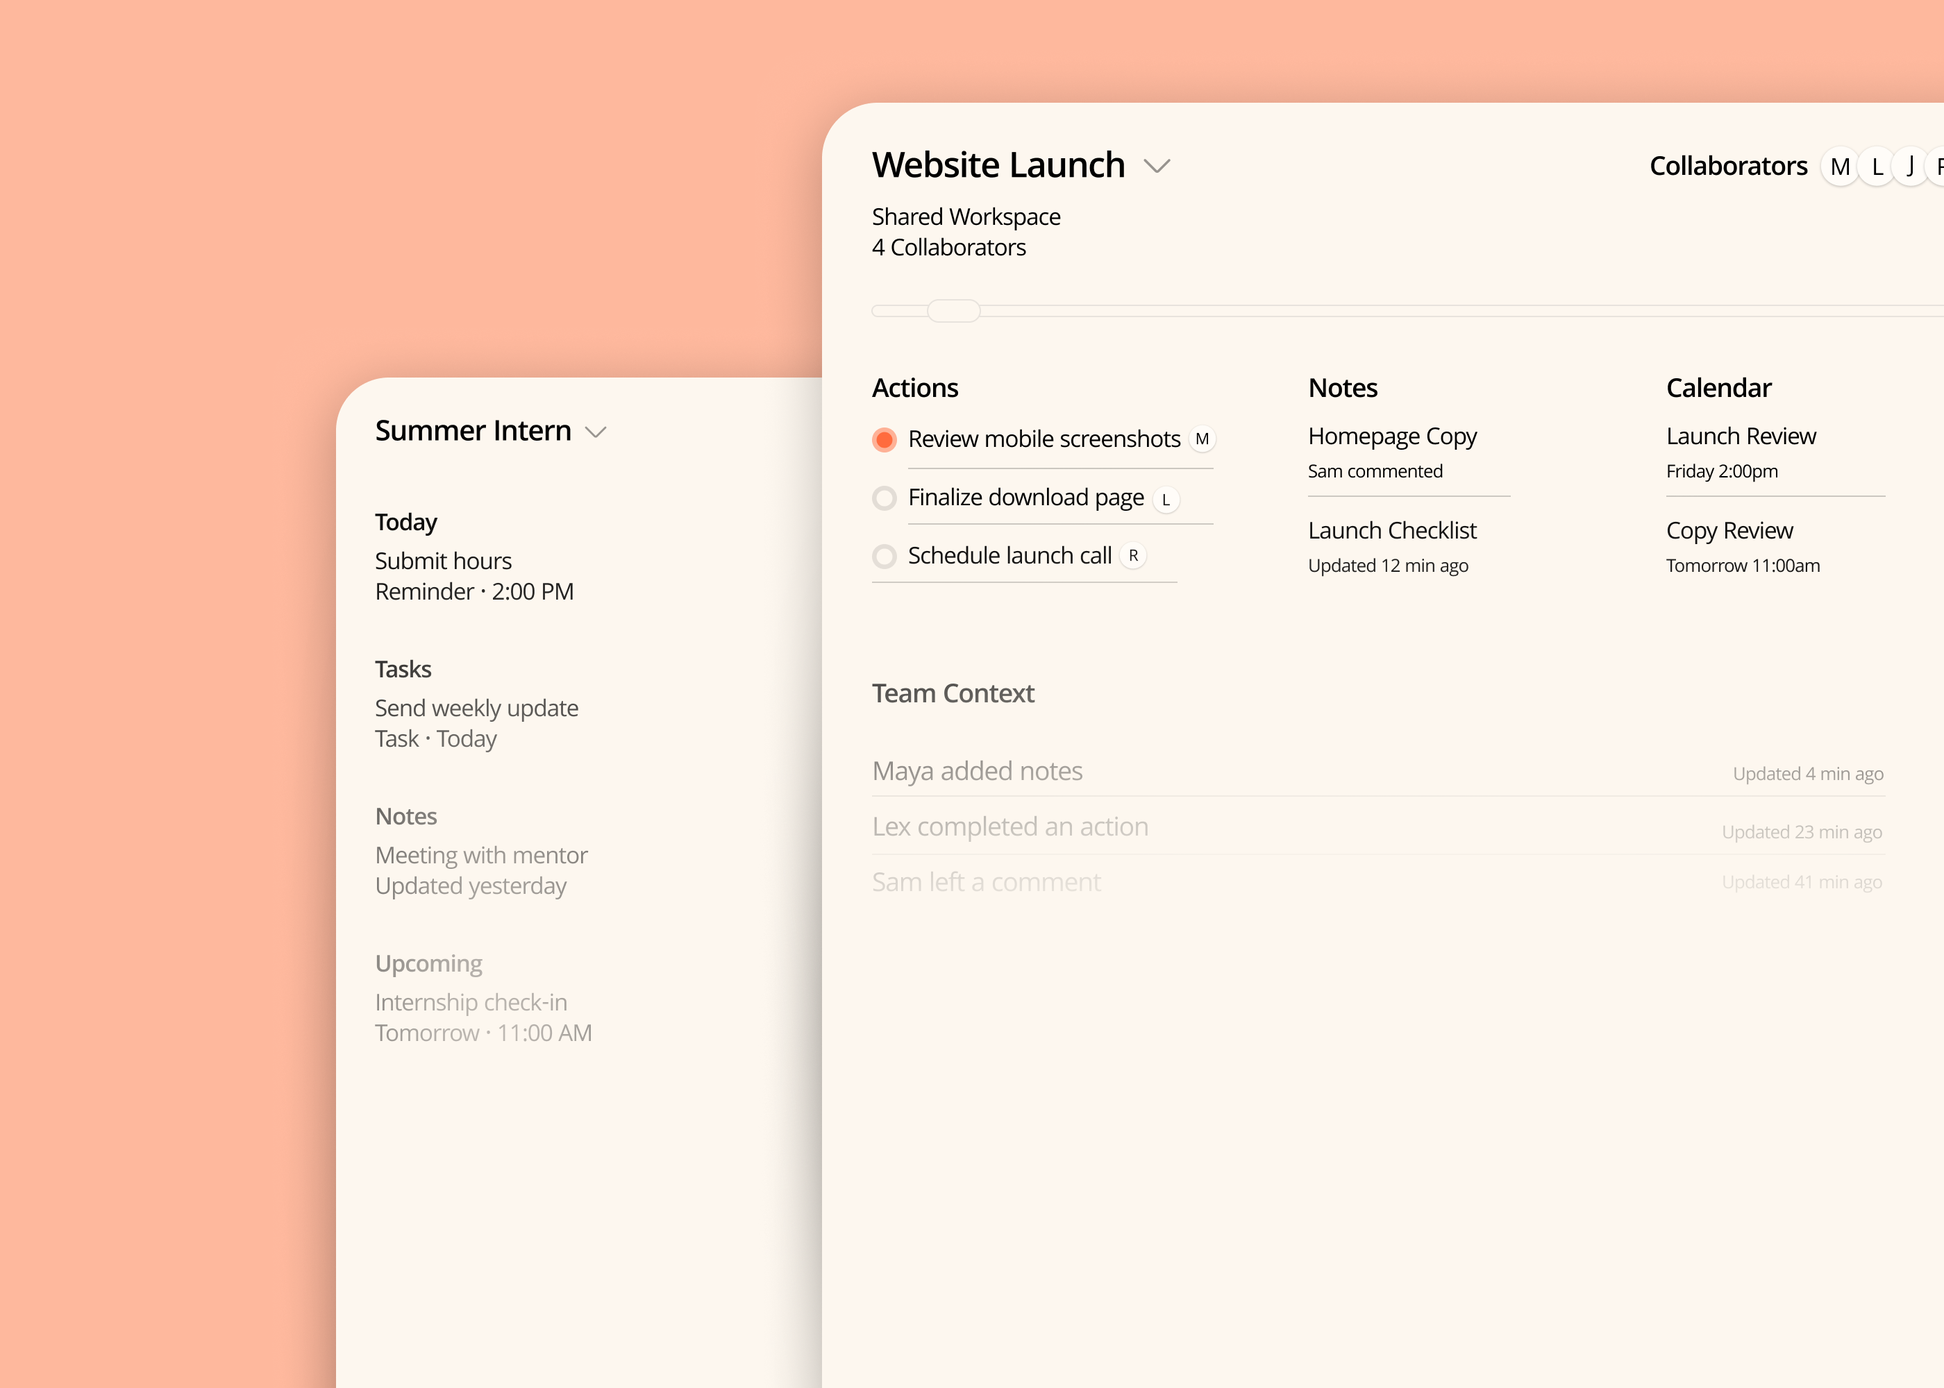
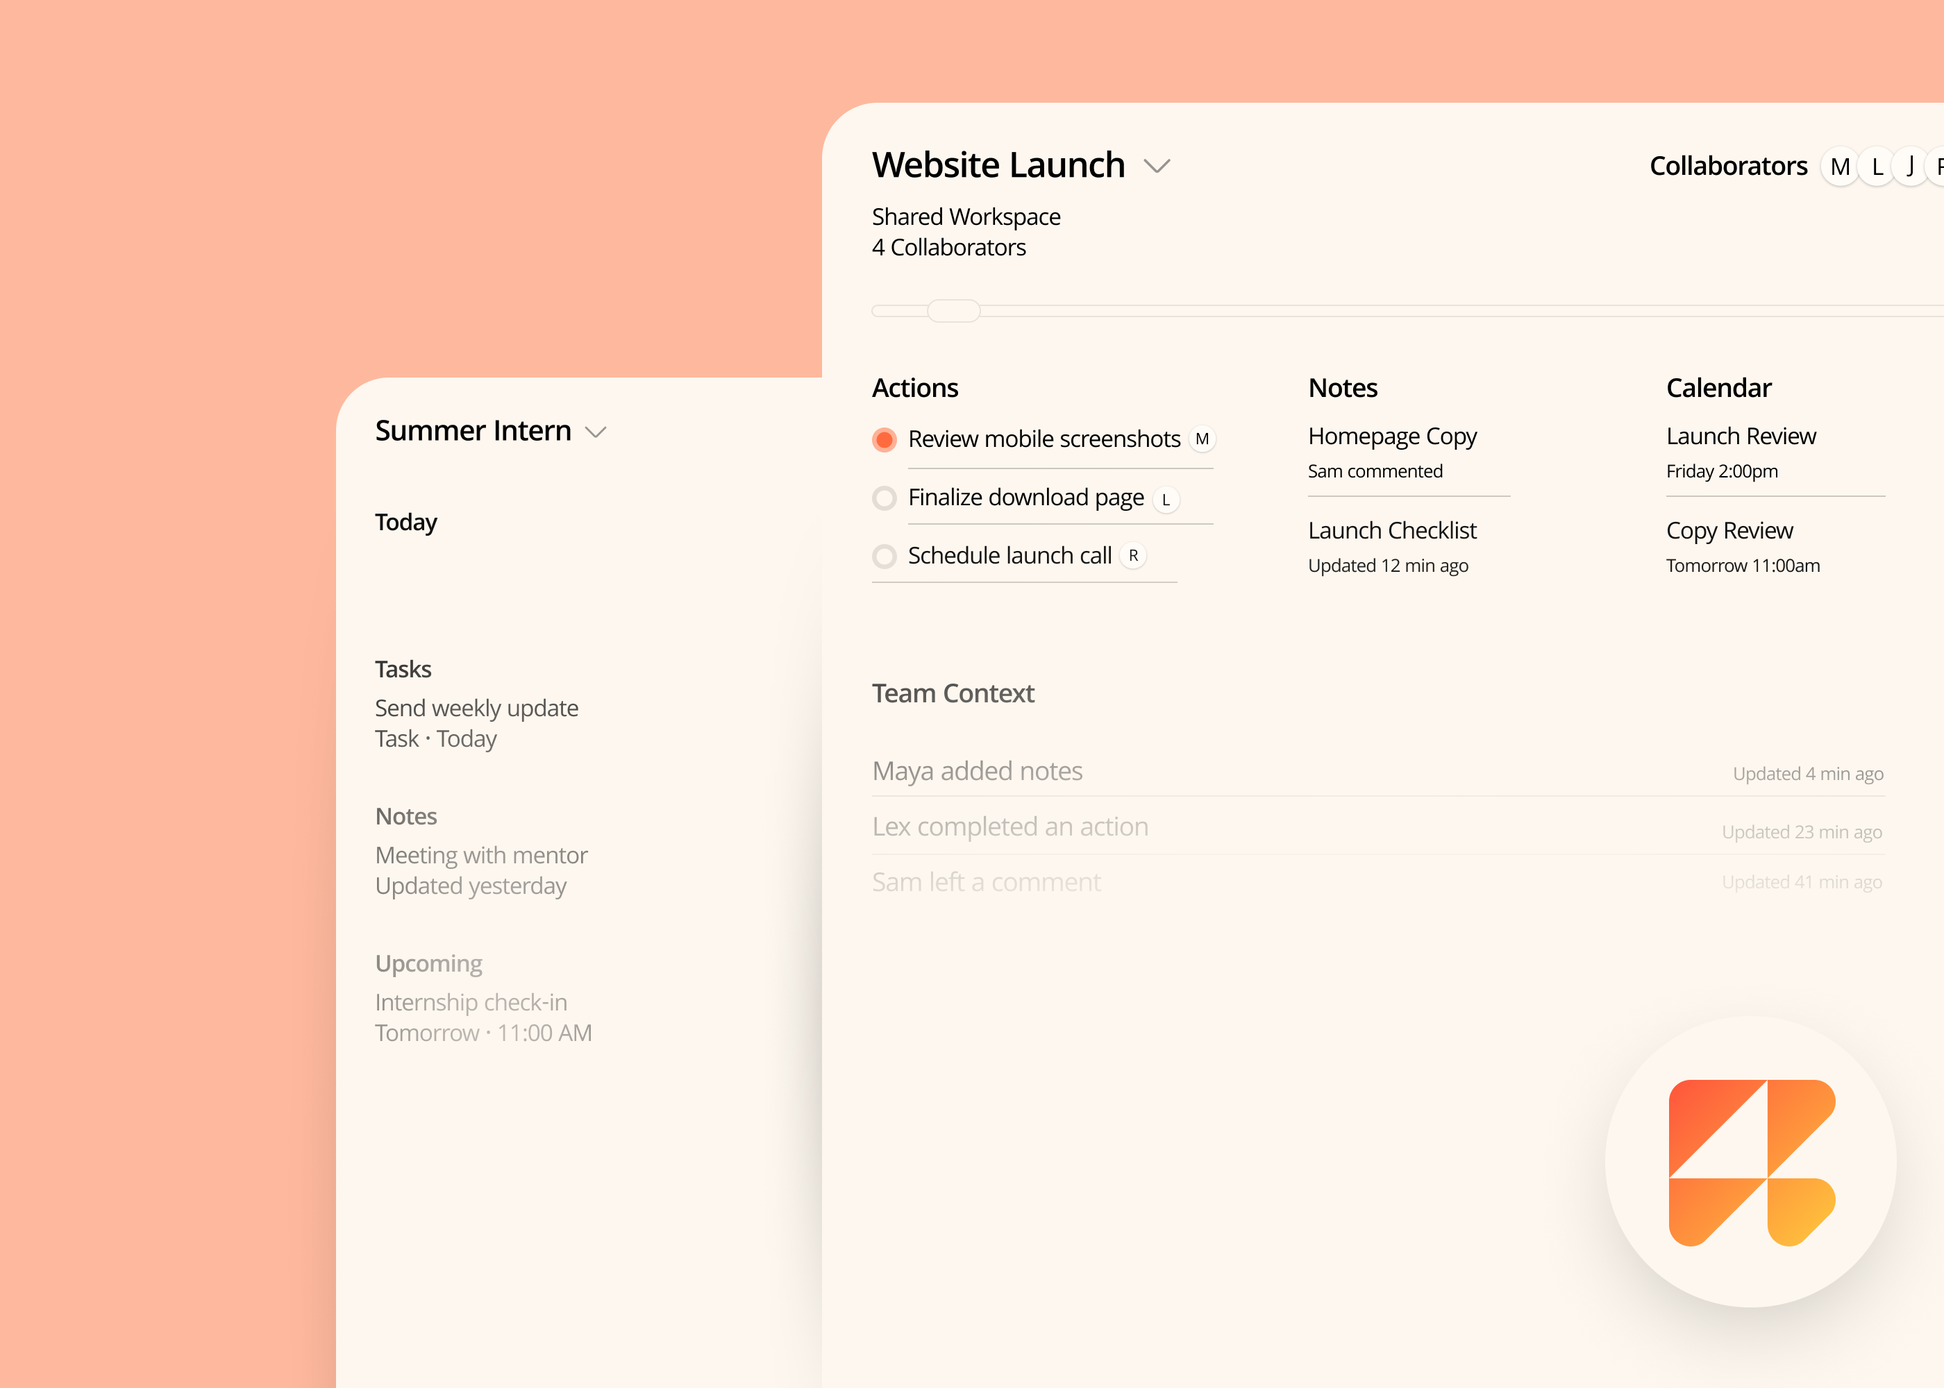
feat: finished section

diff --git a/src/components/sections/HomepageAssistantGridSection.tsx b/src/components/sections/HomepageAssistantGridSection.tsx
@@ -4,7 +4,7 @@ import { ArrowRight } from 'lucide-react'
 
 function SharedWorkspaceMockup() {
   return (
-    <div className="relative isolate h-full min-h-[320px] overflow-hidden rounded-b-[18px] rounded-t-none border border-(--ledger-border-subtle) bg-[linear-gradient(180deg,var(--ledger-background-muted)_0%,rgba(255,255,255,0.52)_100%)] p-3 sm:min-h-[360px] sm:rounded-b-[22px] sm:rounded-t-none sm:p-4 lg:min-h-[500px] lg:rounded-l-none lg:rounded-r-[24px] lg:rounded-t-none lg:rounded-b-none xl:rounded-r-[28px] xl:rounded-t-none xl:rounded-b-none">
+    <div className="relative isolate h-full min-h-[320px] overflow-hidden rounded-b-[18px] rounded-t-none bg-[linear-gradient(180deg,var(--ledger-background-muted)_0%,rgba(255,255,255,0.52)_100%)] p-3 sm:min-h-[360px] sm:rounded-b-[22px] sm:rounded-t-none sm:p-4 lg:min-h-[500px] lg:rounded-l-none lg:rounded-r-[24px] lg:rounded-t-none lg:rounded-b-none xl:rounded-r-[28px] xl:rounded-t-none xl:rounded-b-none">
       <picture className="absolute inset-0 block overflow-hidden rounded-[inherit]">
         <source media="(min-width: 1024px)" srcSet="/assets/bentobox1/topbentodesktop_4x.webp" />
         <img
@@ -12,6 +12,38 @@ function SharedWorkspaceMockup() {
           alt=""
           aria-hidden="true"
           className="h-full w-full rounded-[inherit] object-cover object-center max-[420px]:object-[8%_center]"
+        />
+      </picture>
+    </div>
+  )
+}
+
+function SearchMockup() {
+  return (
+    <div className="relative isolate aspect-[5/3] w-full overflow-hidden rounded-b-[20px] rounded-t-none bg-[linear-gradient(180deg,var(--ledger-background-muted)_0%,rgba(255,255,255,0.52)_100%)] sm:rounded-b-[24px] lg:aspect-[63/50] lg:rounded-b-[28px]">
+      <picture className="absolute inset-0 block overflow-hidden rounded-[inherit]">
+        <source media="(min-width: 1024px)" srcSet="/assets/bentobox1/2ndtopbentoboxdesktop_4x.webp" />
+        <img
+          src="/assets/bentobox1/2ndtopbentoboxmobtab_4x.webp"
+          alt=""
+          aria-hidden="true"
+          className="h-full w-full rounded-[inherit] object-cover object-center"
+        />
+      </picture>
+    </div>
+  )
+}
+
+function WorkspaceFollowsMockup() {
+  return (
+    <div className="relative isolate aspect-[5/3] w-full overflow-hidden rounded-b-[20px] rounded-t-none bg-[linear-gradient(180deg,var(--ledger-background-muted)_0%,rgba(255,255,255,0.52)_100%)] sm:rounded-b-[24px] lg:aspect-[63/50] lg:rounded-b-[28px]">
+      <picture className="absolute inset-0 block overflow-hidden rounded-[inherit]">
+        <source media="(min-width: 1024px)" srcSet="/assets/bentobox1/3rdtopbentoboxdesktop_4x.webp" />
+        <img
+          src="/assets/bentobox1/3rdtopbentoboxmobtab_4x.webp"
+          alt=""
+          aria-hidden="true"
+          className="h-full w-full rounded-[inherit] object-cover object-center"
         />
       </picture>
     </div>
@@ -52,7 +84,7 @@ export function HomepageAssistantGridSection() {
         <div className="mt-8 grid gap-4 md:grid-cols-2">
           <article
             data-reveal-assistant
-            className="feature-reveal reveal-up overflow-hidden rounded-[20px] border border-(--ledger-border-subtle) bg-(--ledger-surface-card) sm:rounded-[24px] xl:rounded-[32px] md:col-span-2"
+            className="feature-reveal reveal-up overflow-hidden rounded-[20px] bg-(--ledger-surface-card) sm:rounded-[24px] xl:rounded-[32px] md:col-span-2"
             style={{ transitionDelay: '150ms' }}
           >
             <div className="grid min-h-[320px] gap-0 lg:grid-cols-[minmax(0,0.42fr)_minmax(0,0.58fr)]">
@@ -65,7 +97,7 @@ export function HomepageAssistantGridSection() {
                     </h3>
                   </div>
 
-                  <div className="mt-0.5 inline-flex h-8 w-8 shrink-0 items-center justify-center rounded-full bg-ledger-accent text-white shadow-[0_10px_20px_rgba(0,0,0,0.2)] transition-colors duration-200 hover:bg-ledger-accent-hover">
+                  <div className="mt-0.5 inline-flex h-8 w-8 shrink-0 items-center justify-center rounded-full bg-ledger-accent text-white transition-colors duration-200 hover:bg-ledger-accent-hover">
                     <ArrowRight className="h-4 w-4" strokeWidth={2.2} />
                   </div>
                 </div>
@@ -79,7 +111,7 @@ export function HomepageAssistantGridSection() {
 
           <article
             data-reveal-assistant
-            className="feature-reveal reveal-left overflow-hidden rounded-[18px] border border-(--ledger-border-subtle) bg-(--ledger-surface-card) sm:rounded-[22px] xl:rounded-[28px]"
+            className="feature-reveal reveal-left overflow-hidden rounded-[18px] bg-(--ledger-surface-card) sm:rounded-[22px] xl:rounded-[28px]"
             style={{ transitionDelay: '220ms' }}
           >
             <div className="p-4 sm:p-5">
@@ -90,21 +122,17 @@ export function HomepageAssistantGridSection() {
                     Search across every context.
                   </h3>
                 </div>
-                <div className="mt-0.5 inline-flex h-8 w-8 shrink-0 items-center justify-center rounded-full bg-ledger-accent text-white shadow-[0_10px_20px_rgba(0,0,0,0.2)] transition-colors duration-200 hover:bg-ledger-accent-hover">
+                <div className="mt-0.5 inline-flex h-8 w-8 shrink-0 items-center justify-center rounded-full bg-ledger-accent text-white transition-colors duration-200 hover:bg-ledger-accent-hover">
                   <ArrowRight className="h-4 w-4" strokeWidth={2.2} />
                 </div>
               </div>
             </div>
-            <div className="border-t border-(--ledger-border-subtle) bg-[linear-gradient(135deg,rgba(255,255,255,0.04)_0%,rgba(255,255,255,0.02)_100%)] p-0">
-              <div className="flex min-h-[320px] items-stretch justify-stretch overflow-hidden rounded-b-[20px] bg-white/[0.04] sm:min-h-[360px] sm:rounded-b-[24px] lg:min-h-[500px] lg:rounded-b-[28px]">
-                <div className="w-full rounded-b-[20px] bg-[#f7f2ea]/95 sm:rounded-b-[24px] lg:rounded-b-[28px]" />
-              </div>
-            </div>
+            <SearchMockup />
           </article>
 
           <article
             data-reveal-assistant
-            className="feature-reveal reveal-right overflow-hidden rounded-[18px] border border-(--ledger-border-subtle) bg-(--ledger-surface-card) sm:rounded-[22px] xl:rounded-[28px]"
+            className="feature-reveal reveal-right overflow-hidden rounded-[18px] bg-(--ledger-surface-card) sm:rounded-[22px] xl:rounded-[28px]"
             style={{ transitionDelay: '280ms' }}
           >
             <div className="p-4 sm:p-5">
@@ -115,16 +143,12 @@ export function HomepageAssistantGridSection() {
                     Your workspace follows you.
                   </h3>
                 </div>
-                <div className="mt-0.5 inline-flex h-8 w-8 shrink-0 items-center justify-center rounded-full bg-ledger-accent text-white shadow-[0_10px_20px_rgba(0,0,0,0.2)] transition-colors duration-200 hover:bg-ledger-accent-hover">
+                <div className="mt-0.5 inline-flex h-8 w-8 shrink-0 items-center justify-center rounded-full bg-ledger-accent text-white transition-colors duration-200 hover:bg-ledger-accent-hover">
                   <ArrowRight className="h-4 w-4" strokeWidth={2.2} />
                 </div>
               </div>
             </div>
-            <div className="border-t border-(--ledger-border-subtle) bg-[linear-gradient(135deg,rgba(255,255,255,0.04)_0%,rgba(255,255,255,0.02)_100%)] p-0">
-              <div className="flex min-h-[320px] items-stretch justify-stretch overflow-hidden rounded-b-[20px] bg-white/[0.04] sm:min-h-[360px] sm:rounded-b-[24px] lg:min-h-[500px] lg:rounded-b-[28px]">
-                <div className="w-full rounded-b-[20px] bg-[#f7f2ea]/95 sm:rounded-b-[24px] lg:rounded-b-[28px]" />
-              </div>
-            </div>
+            <WorkspaceFollowsMockup />
           </article>
         </div>
       </div>

diff --git a/src/components/sections/HomepageWorkflowSection.tsx b/src/components/sections/HomepageWorkflowSection.tsx
@@ -294,7 +294,7 @@ export function HomepageWorkflowSection() {
     <section
       ref={sectionRef}
       aria-label="How Ledger works"
-      className="homepage-workflow relative z-20 overflow-x-clip border-t border-(--ledger-border-subtle) bg-[var(--ledger-surface)] px-6 py-20 sm:px-8 sm:py-24 -mt-20 sm:-mt-22 lg:-mt-26 xl:-mt-26"
+      className="homepage-workflow relative z-20 overflow-x-clip bg-[var(--ledger-surface)] px-6 py-20 sm:px-8 sm:py-24 -mt-20 sm:-mt-22 lg:-mt-26 xl:-mt-26"
     >
       <div className="mx-auto w-full max-w-7xl">
         <div data-reveal-workflow className="feature-reveal reveal-up max-w-4xl" style={{ transitionDelay: '70ms' }}>
@@ -305,7 +305,7 @@ export function HomepageWorkflowSection() {
 
         <div
           data-reveal-workflow
-          className="feature-reveal reveal-up mt-10 overflow-hidden rounded-[24px] border border-(--ledger-border-subtle) bg-(--ledger-surface-card) sm:rounded-[28px] xl:rounded-[36px]"
+          className="feature-reveal reveal-up mt-10 overflow-hidden rounded-[24px] bg-(--ledger-surface-card) sm:rounded-[28px] xl:rounded-[36px]"
           style={{ transitionDelay: '150ms' }}
         >
           <div className="hidden items-stretch gap-0 lg:grid lg:grid-cols-[minmax(0,0.42fr)_minmax(0,0.58fr)]">
@@ -319,7 +319,7 @@ export function HomepageWorkflowSection() {
 
               <a
                 href="/download"
-                className="mt-3 inline-flex h-8 w-8 items-center justify-center rounded-full bg-ledger-accent text-white shadow-[0_10px_20px_rgba(0,0,0,0.2)] transition-colors duration-200 hover:bg-ledger-accent-hover"
+                className="mt-3 inline-flex h-8 w-8 items-center justify-center rounded-full bg-ledger-accent text-white transition-colors duration-200 hover:bg-ledger-accent-hover"
                 aria-label="Download Ledger"
               >
                 <ArrowRight className="h-4 w-4" strokeWidth={2.2} />
@@ -372,7 +372,7 @@ export function HomepageWorkflowSection() {
                 </div>
                 <a
                   href="/download"
-                  className="mt-0.5 inline-flex h-8 w-8 shrink-0 items-center justify-center rounded-full bg-ledger-accent text-white shadow-[0_10px_20px_rgba(0,0,0,0.2)] transition-colors duration-200 hover:bg-ledger-accent-hover"
+                  className="mt-0.5 inline-flex h-8 w-8 shrink-0 items-center justify-center rounded-full bg-ledger-accent text-white transition-colors duration-200 hover:bg-ledger-accent-hover"
                   aria-label="Download Ledger"
                 >
                   <ArrowRight className="h-4 w-4" strokeWidth={2.2} />
@@ -454,7 +454,7 @@ export function HomepageWorkflowSection() {
               <a
                 key={card.title}
                 href={card.href}
-                className="group h-full rounded-[22px] border border-(--ledger-border-subtle) bg-(--ledger-surface-card) p-3 transition-[border-color,box-shadow] duration-180 ease-out hover:border-(--ledger-header-border) hover:shadow-[0_10px_28px_rgba(23,21,18,0.08)] sm:p-3.5 xl:rounded-3xl xl:p-4"
+                className="group h-full rounded-[22px] bg-(--ledger-surface-card) p-3 transition-[box-shadow] duration-180 ease-out hover:shadow-[0_10px_28px_rgba(23,21,18,0.08)] sm:p-3.5 xl:rounded-3xl xl:p-4"
                 style={{ transitionDelay: `${300 + index * 40}ms` }}
               >
                 <div className="flex items-center gap-3 xl:hidden">

diff --git a/src/components/sections/HomepageCommandGridSection.tsx b/src/components/sections/HomepageCommandGridSection.tsx
@@ -30,7 +30,7 @@ function SmallCommandCard({
   tone: 'warm' | 'cool'
 }) {
   return (
-    <article className={`flex h-full flex-col overflow-hidden rounded-[18px] border border-(--ledger-border-subtle) bg-(--ledger-surface-card) sm:rounded-[22px] xl:rounded-[28px] ${cardShellHeightClass}`}>
+    <article className={`flex h-full flex-col overflow-hidden rounded-[18px] bg-(--ledger-surface-card) sm:rounded-[22px] xl:rounded-[28px] ${cardShellHeightClass}`}>
       <div className="p-4 sm:p-5">
         <div className="flex items-start justify-between gap-4">
           <div className="min-w-0 flex-1">
@@ -39,7 +39,7 @@ function SmallCommandCard({
               {title}
             </h3>
           </div>
-          <div className="mt-0.5 inline-flex h-8 w-8 shrink-0 items-center justify-center rounded-full bg-ledger-accent text-white shadow-[0_10px_20px_rgba(0,0,0,0.2)] transition-colors duration-200 hover:bg-ledger-accent-hover">
+          <div className="mt-0.5 inline-flex h-8 w-8 shrink-0 items-center justify-center rounded-full bg-ledger-accent text-white transition-colors duration-200 hover:bg-ledger-accent-hover">
             <ArrowRight className="h-4 w-4" strokeWidth={2.2} />
           </div>
         </div>
@@ -55,7 +55,7 @@ function SmallCommandCard({
 
 function WideCommandCard() {
   return (
-    <article className={`flex h-full flex-col overflow-hidden rounded-[20px] border border-(--ledger-border-subtle) bg-(--ledger-surface-card) sm:rounded-[24px] xl:rounded-[32px] md:col-span-2 ${wideCardShellHeightClass}`}>
+    <article className={`flex h-full flex-col overflow-hidden rounded-[20px] bg-(--ledger-surface-card) sm:rounded-[24px] xl:rounded-[32px] md:col-span-2 ${wideCardShellHeightClass}`}>
       <div className="flex flex-1 flex-col gap-0 lg:grid lg:grid-cols-[minmax(0,0.42fr)_minmax(0,0.58fr)]">
         <div className="p-6 sm:p-7">
           <div className="flex items-start justify-between gap-4">
@@ -66,7 +66,7 @@ function WideCommandCard() {
               </h3>
             </div>
 
-            <div className="mt-0.5 inline-flex h-8 w-8 shrink-0 items-center justify-center rounded-full bg-ledger-accent text-white shadow-[0_10px_20px_rgba(0,0,0,0.2)] transition-colors duration-200 hover:bg-ledger-accent-hover">
+            <div className="mt-0.5 inline-flex h-8 w-8 shrink-0 items-center justify-center rounded-full bg-ledger-accent text-white transition-colors duration-200 hover:bg-ledger-accent-hover">
               <ArrowRight className="h-4 w-4" strokeWidth={2.2} />
             </div>
           </div>

diff --git a/public/bento-image-frame-notes.md b/public/bento-image-frame-notes.md
@@ -1,0 +1,107 @@
+# Bento Image Frame Notes
+
+Use this when placing a finished marketing image or video frame inside a Ledger bento card.
+
+## Goal
+
+Make the image feel like it was designed for the frame, not squeezed into it.
+
+The key is to match:
+- the frame ratio
+- the exported asset ratio
+- the breakpoint behavior
+
+If those three do not line up, you get one of two problems:
+- `object-cover` crops too much
+- `object-contain` leaves empty space
+
+## General Rules
+
+- Keep the outer bento card shape stable.
+- Put the visual in a dedicated inner frame.
+- Let the image fill that frame edge to edge.
+- Do not add extra borders around the image itself.
+- Use one image asset for desktop and one for mobile/tablet if the compositions differ.
+
+## Desktop
+
+Desktop usually has more horizontal room and can support a wider, more staged composition.
+
+Recommended approach:
+- Use the desktop export for `lg` and above.
+- Match the frame to the desktop asset aspect ratio.
+- Prefer `object-cover` if the composition is meant to crop slightly.
+- Prefer `object-contain` only when the artwork must stay fully visible.
+
+For the Search bento, the desktop frame works best when it matches the asset ratio closely and stays vertically centered.
+
+## Mobile and Tablet
+
+Mobile and tablet often need a different crop from desktop.
+
+Recommended approach:
+- Use the mob/tablet export below `lg`.
+- Keep the frame a little shorter and more compact.
+- Avoid making the frame taller than the artboard unless the asset is meant to fill extra space.
+- If the image sits too low, trim the frame first before changing the crop.
+
+If mobile/tablet looks zoomed in:
+- the frame is usually too small for the asset ratio
+- or the asset is being forced into `object-cover` against the wrong ratio
+
+If mobile/tablet shows empty space:
+- the frame is usually too tall
+- or `object-contain` is exposing the natural aspect ratio without enough frame height
+
+## Practical Pattern
+
+Use this pattern for bento visuals:
+
+```tsx
+<div className="relative isolate aspect-[5/3] w-full overflow-hidden sm:aspect-[5/3] lg:aspect-[63/50]">
+  <picture className="absolute inset-0 block overflow-hidden rounded-[inherit]">
+    <source media="(min-width: 1024px)" srcSet="/path/to/desktop.webp" />
+    <img
+      src="/path/to/mobtab.webp"
+      alt=""
+      aria-hidden="true"
+      className="h-full w-full rounded-[inherit] object-cover object-center"
+    />
+  </picture>
+</div>
+```
+
+Then tune only these three things:
+- `aspect-[...]` on the wrapper
+- the desktop `source`
+- the mobile/tablet `img` asset
+
+## What To Adjust First
+
+When a visual looks wrong, adjust in this order:
+
+1. Frame aspect ratio
+2. Asset selection by breakpoint
+3. `object-fit`
+4. `object-position`
+
+Do not start with random padding or borders. That usually hides the problem instead of fixing it.
+
+## Current Ledger Pattern
+
+For the homepage assistant bento boxes:
+
+- Shared Workspaces:
+  - desktop asset for `lg` and up
+  - mob/tablet asset below `lg`
+  - frame should stay clean and cropped to the card shape
+
+- Search:
+  - desktop asset for `lg` and up
+  - mob/tablet asset below `lg`
+  - frame should match the exported art ratio so the bottom edge lands naturally
+
+## Reminder
+
+If the image still feels off after matching the aspect ratio, the next thing to check is the exported artboard itself, not the card shell.
+
